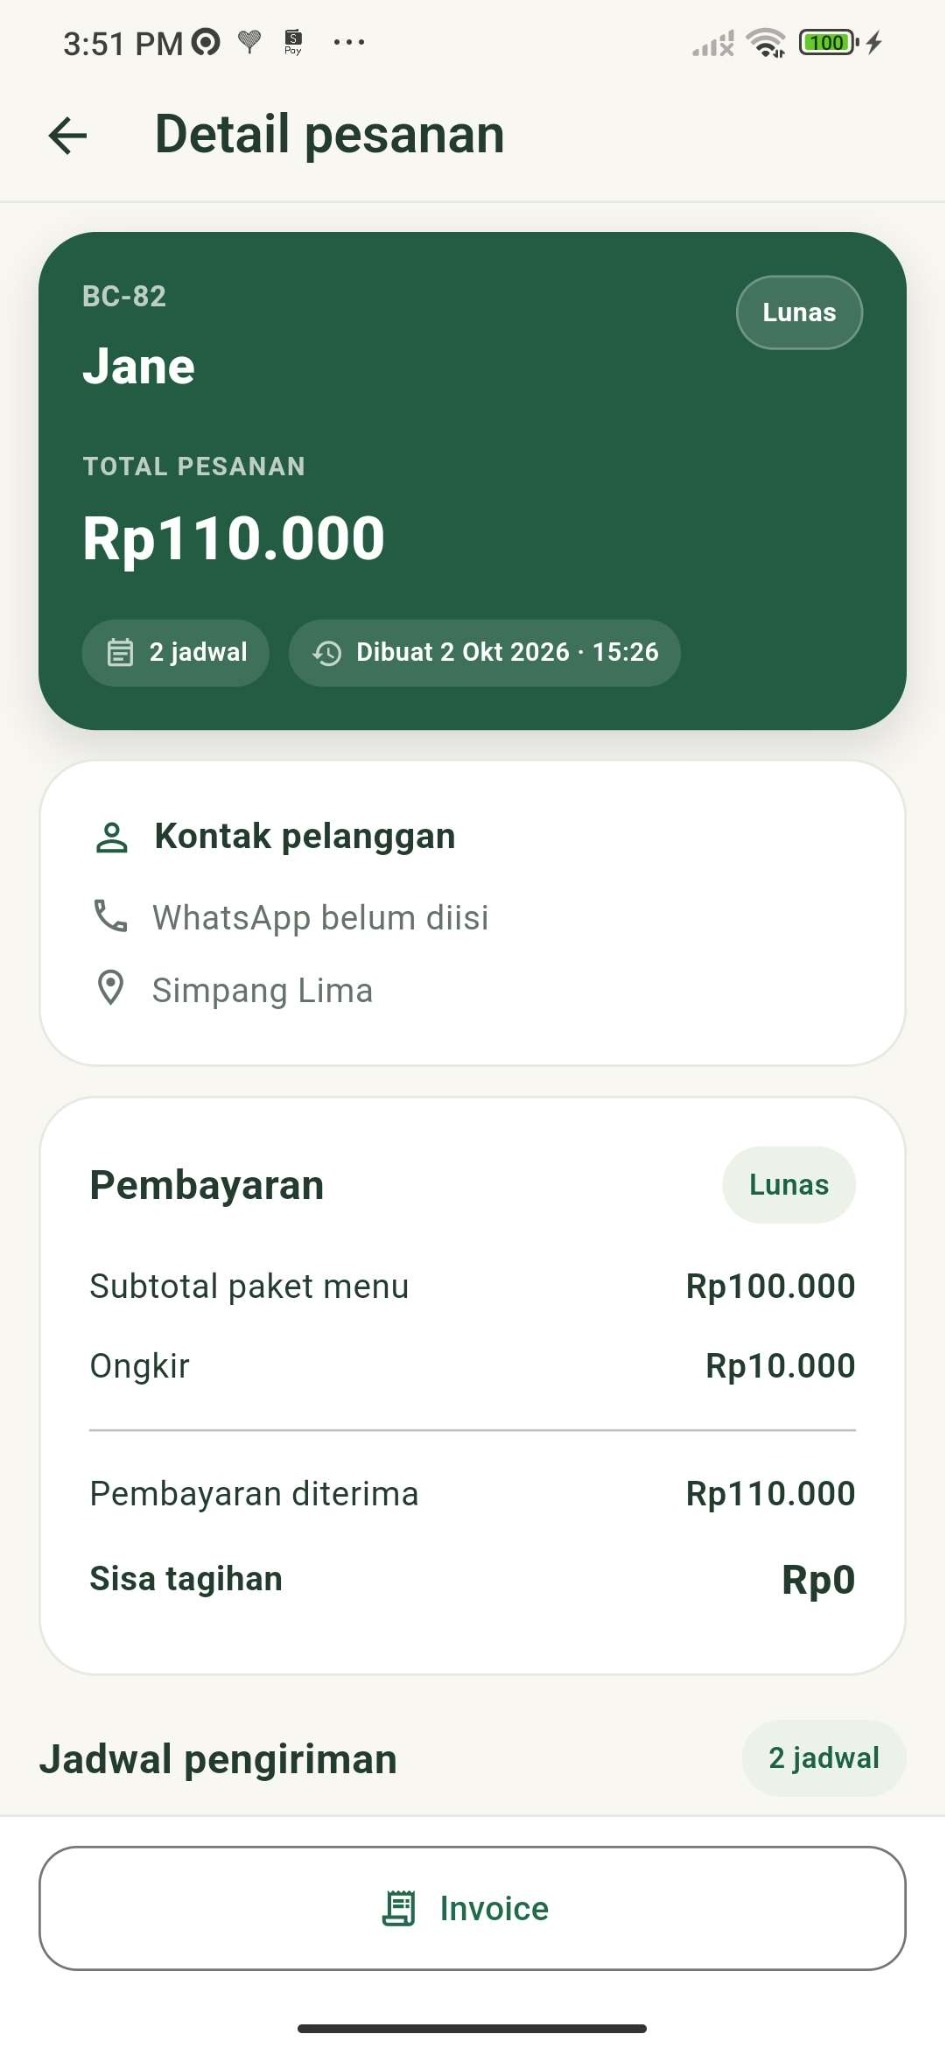
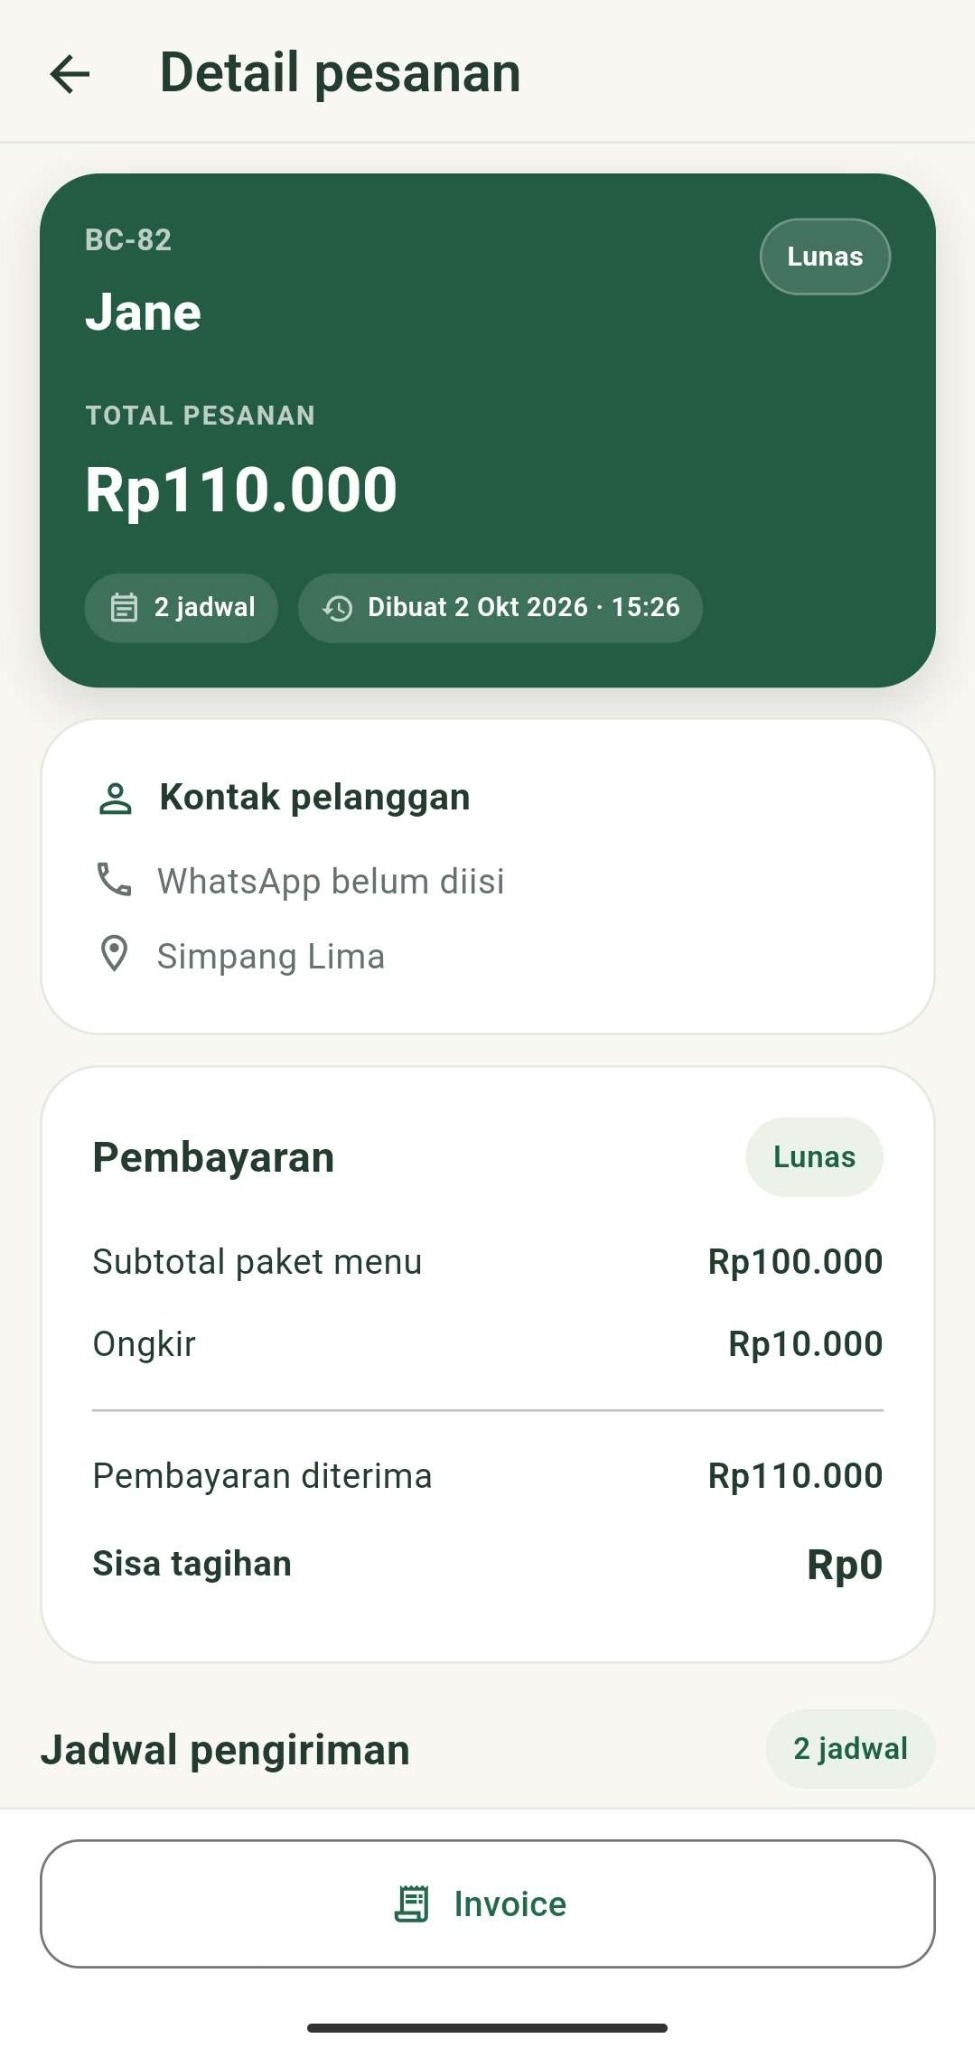
update v8

diff --git a/README.md b/README.md
@@ -54,3 +54,5 @@ Favicon tab browser menggunakan logo BukuCatering, disematkan langsung agar tamp
 Kelima tampilan diperbarui menggunakan upload terbaru. File upload Beranda.jpg dan Detail Pesanan.jpg tertukar namanya; aset dipetakan menurut isi gambar. Tab Pengaturan ditambahkan.
 
 Trial 14 hari ditambahkan berdasarkan konfirmasi pemilik, pada informasi unduh, cara mulai, FAQ dan ajakan penutup. Tidak menetapkan tanggal mulai trial atau syarat pembayaran yang belum dikonfirmasi.
+
+Kelima screenshot diganti lagi dengan unggahan terbaru berakhiran (1). Pemetaan Beranda/Detail tetap mengikuti isi gambar, bukan nama unggahannya. Informasi trial 14 hari tetap disertakan.
